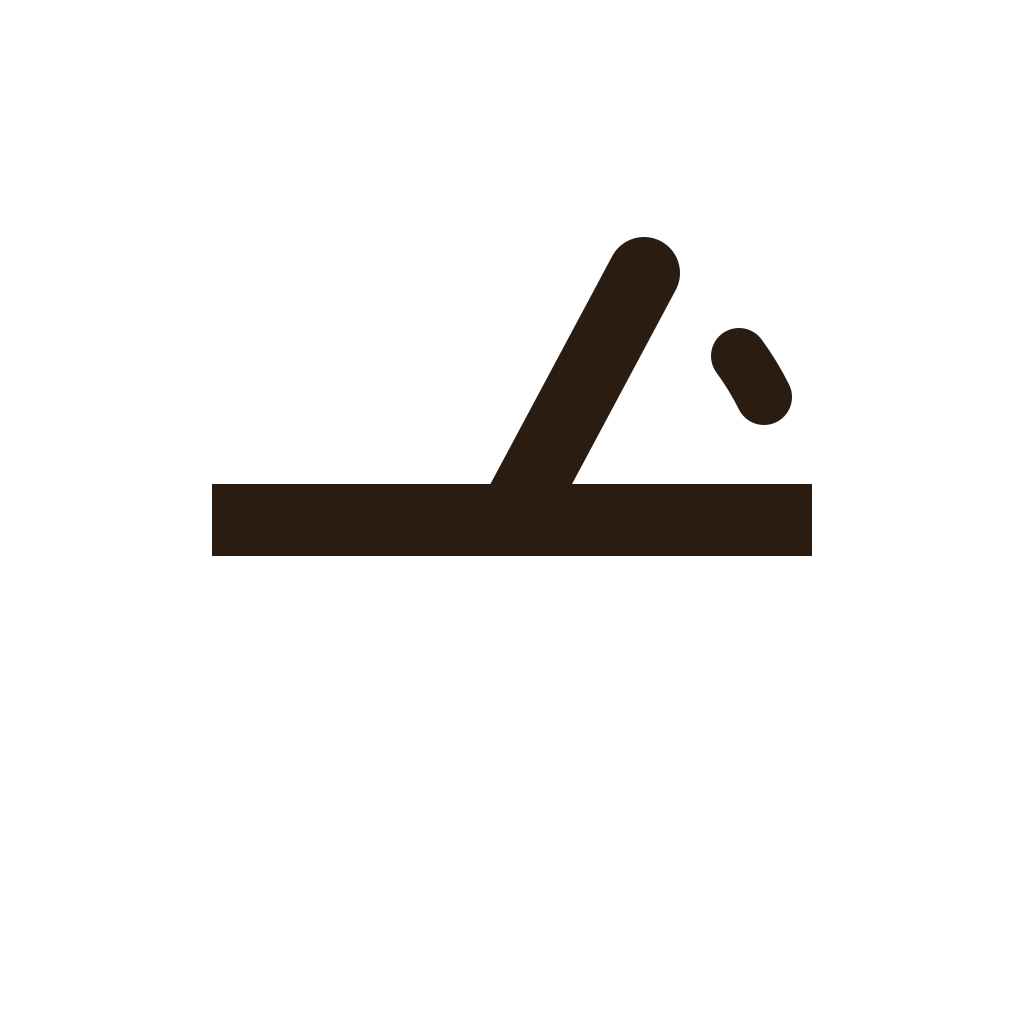
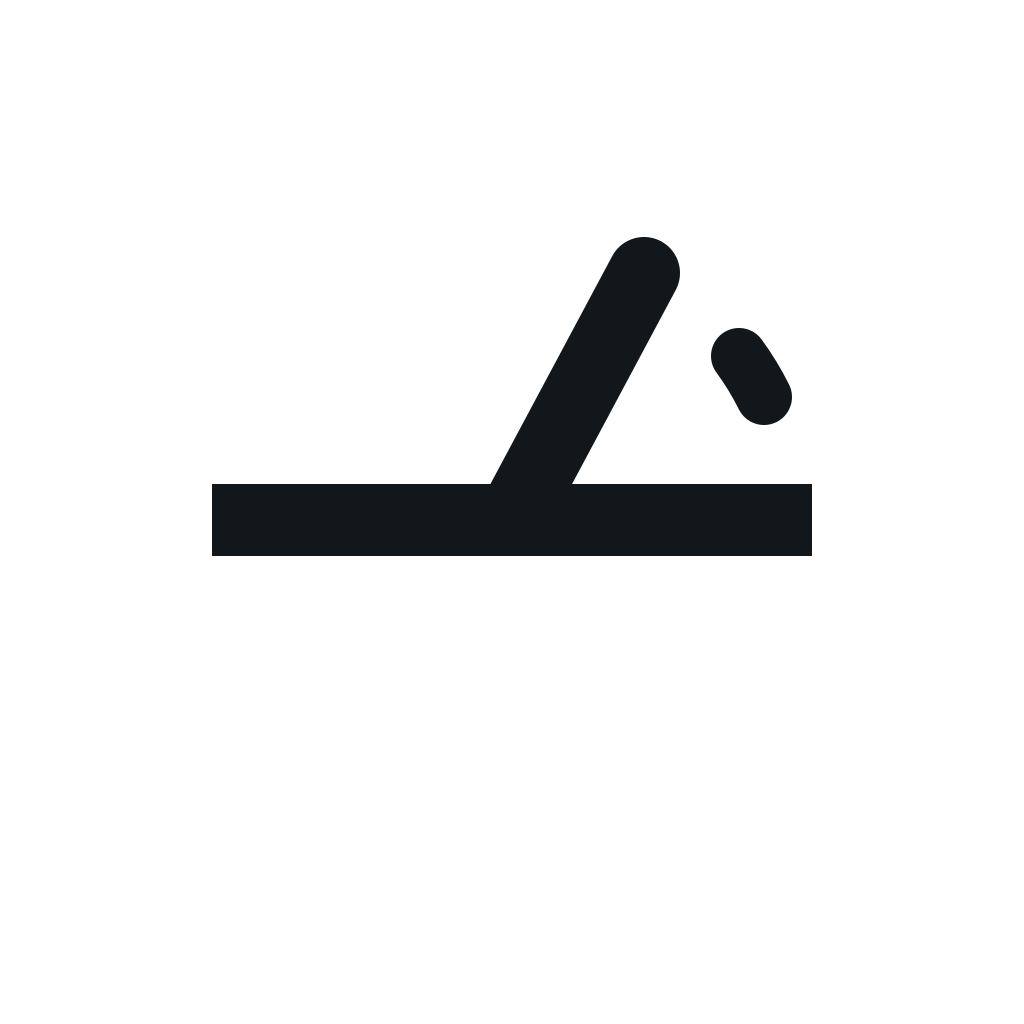
feat(assets): re-tint the launch assets and marks onto the Cold Read palette
The app icon, splash and favicon were the last surface still wearing the espresso/clay palette —
`app.json`'s splash and Android adaptive-icon background colours, the four `assets/source/*.svg`
marks, and `scripts/generate-app-assets.js`'s hand-mirrored copies of the two background tokens.
A recoloured app whose launcher icon is still the old palette is a redesign that stops at the app
boundary, which is exactly what "whole-app" excludes.

Every hex moved to its Cold Read counterpart, role for role — background, text.primary and the
landing marker's `Score.strong.light.fill`:

  light background   #F7F1EB -> #F4F5F7      dark background  #17120E -> #0B0D0F
  light text.primary #2B1C12 -> #12171B      dark text.primary #F7EFE7 -> #EDF1F4
  landing marker     #339869 -> #3C9974

The marker stays `Score.strong`, deliberately NOT the accent — the icon predates this palette and
already carried that rule in its own comment, and the rule is if anything stricter now: the accent
is the one bright value in the system and it belongs to a screen's primary action, not to a
launcher icon. A stale comment in `mark-light.svg` still named the long-retired Calm accent
(#2F6BEB) as the thing it was avoiding; that now names the real one.

PNGs regenerated with `npm run assets` (sharp), so the build outputs match their sources rather
than drifting a palette behind them.

Also fixes two comments the ornament removal left factually wrong: `app/(tabs)/history.tsx` said
[…]

Changed region(s): [[0.1875, 0.2188, 0.8125, 0.5625], [0.6875, 0.3125, 0.7812, 0.4375]]

diff --git a/scripts/generate-app-assets.js b/scripts/generate-app-assets.js
@@ -5,7 +5,7 @@
  * `app.json` points at. Run with `npm run assets` after editing any source SVG — the PNGs in
  * `assets/images/` are build outputs, not hand-edited files.
  *
- * Every color here comes from the Cadence Arcs tokens in `constants/theme.ts`; the SVGs hold the
+ * Every color here comes from the Cold Read tokens in `constants/theme.ts`; the SVGs hold the
  * geometry, this file holds the per-target raster rules (size, alpha, background).
  *
  * The one rule that is not obvious: `icon.png` MUST NOT have an alpha channel. iOS applies its
@@ -25,8 +25,8 @@ const outDir = path.join(root, "assets", "images");
 // Manual mirror of constants/theme.ts -> Colors.light.background / Colors.dark.background.
 // A .js build script cannot import the TS token, so these must be re-synced by hand on any
 // future palette change.
-const LIGHT_BACKGROUND = "#F7F1EB";
-const DARK_BACKGROUND = "#17120E";
+const LIGHT_BACKGROUND = "#F4F5F7";
+const DARK_BACKGROUND = "#0B0D0F";
 
 // Each source SVG carries two layers: an opaque `#field` rect and the `#mark` annotation group.
 // `keepField: false` drops the rect before rasterizing, leaving a transparent surround — that is

diff --git a/app/(tabs)/history.tsx b/app/(tabs)/history.tsx
@@ -250,8 +250,7 @@ export default function HistoryScreen() {
             share a row with a 44pt circular control, which left it a narrow column to wrap into
             and made the screen's largest element read as one of two things competing for the top
             edge. Chrome now sits on its own line ABOVE the title, and the title gets the full
-            readable column to itself — the reference's content-detail treatment, and the same
-            shape the arc ornament in this corner (drawn by `<ScreenGradient>`) was composed for.
+            readable column to itself — the reference's content-detail treatment.
             Still no eyebrow above the title: the copy deck has exactly one string for this
             screen's name, and setting the same words twice to manufacture hierarchy is filler. */}
         <View style={styles.header}>

diff --git a/components/arc-loader.tsx b/components/arc-loader.tsx
@@ -141,8 +141,8 @@ function SpinningArc({
       style={[styles.ring, { width: diameter, height: diameter }, still ? undefined : spinStyle]}>
       <Svg width={diameter} height={diameter}>
         <Circle
-          // See the note on `<CornerArcs>`'s per-arc testID: the gap in this dash array is the
-          // whole reason the rotation is visible, and it can only be asserted from a named node.
+          // Named so a test can reach it: the GAP in this dash array is the whole reason the
+          // rotation is visible at all, and there is no way to assert that from an unnamed node.
           testID={testID ? `${testID}-arc` : undefined}
           cx={diameter / 2}
           cy={diameter / 2}
